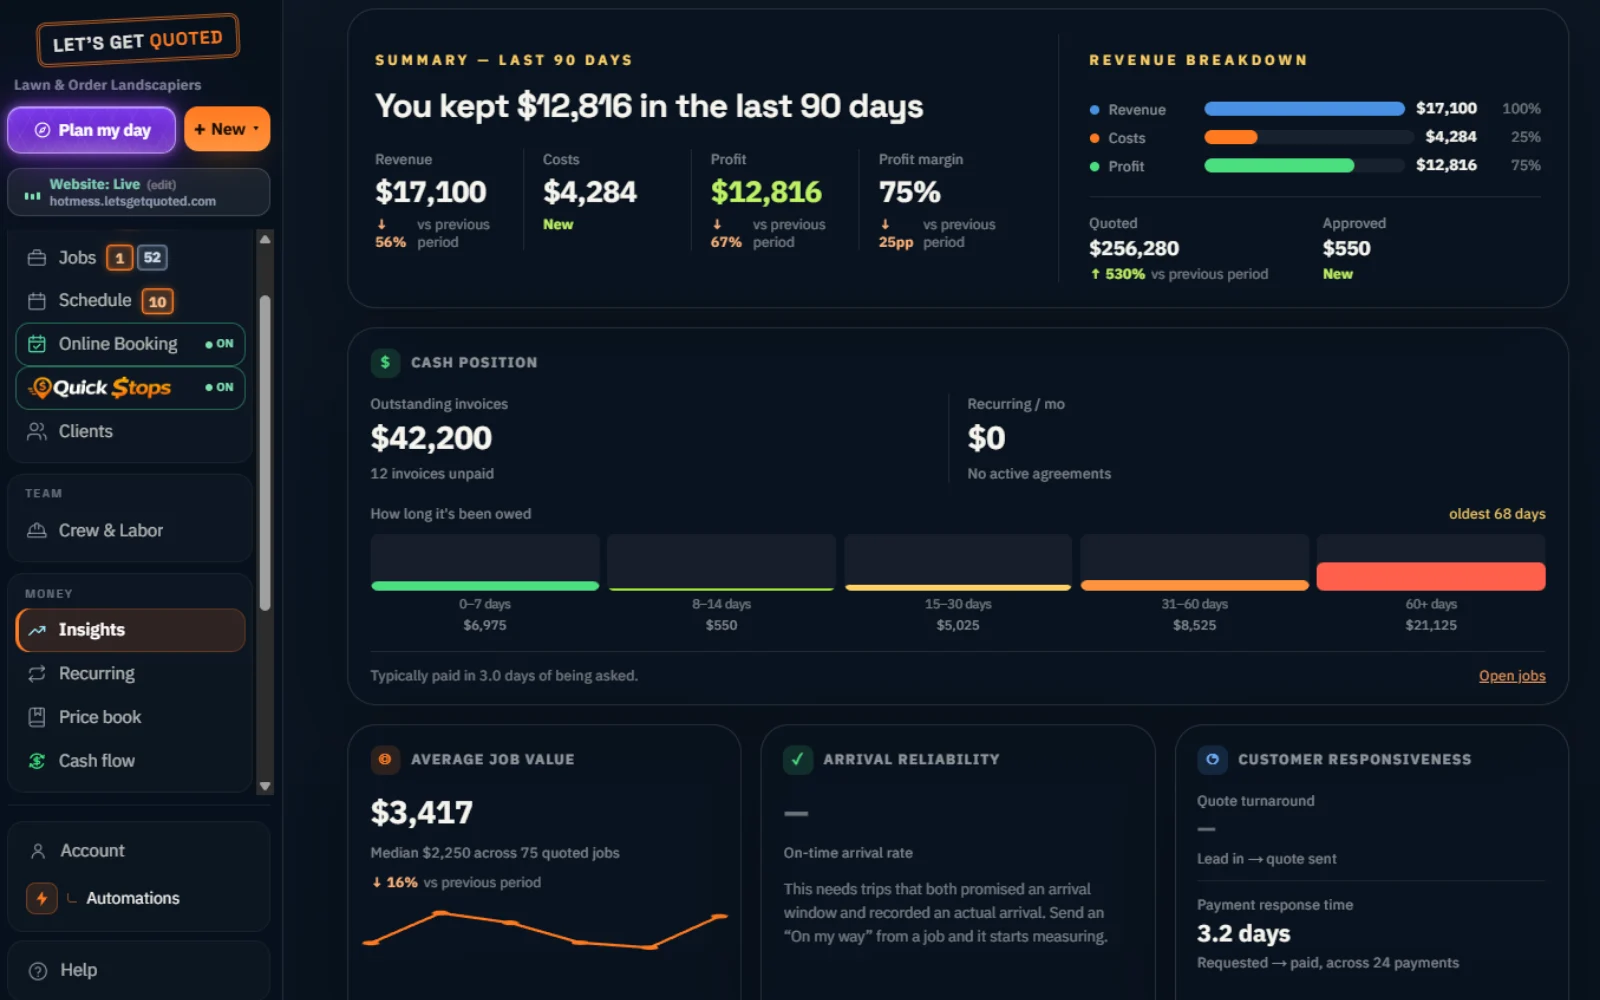
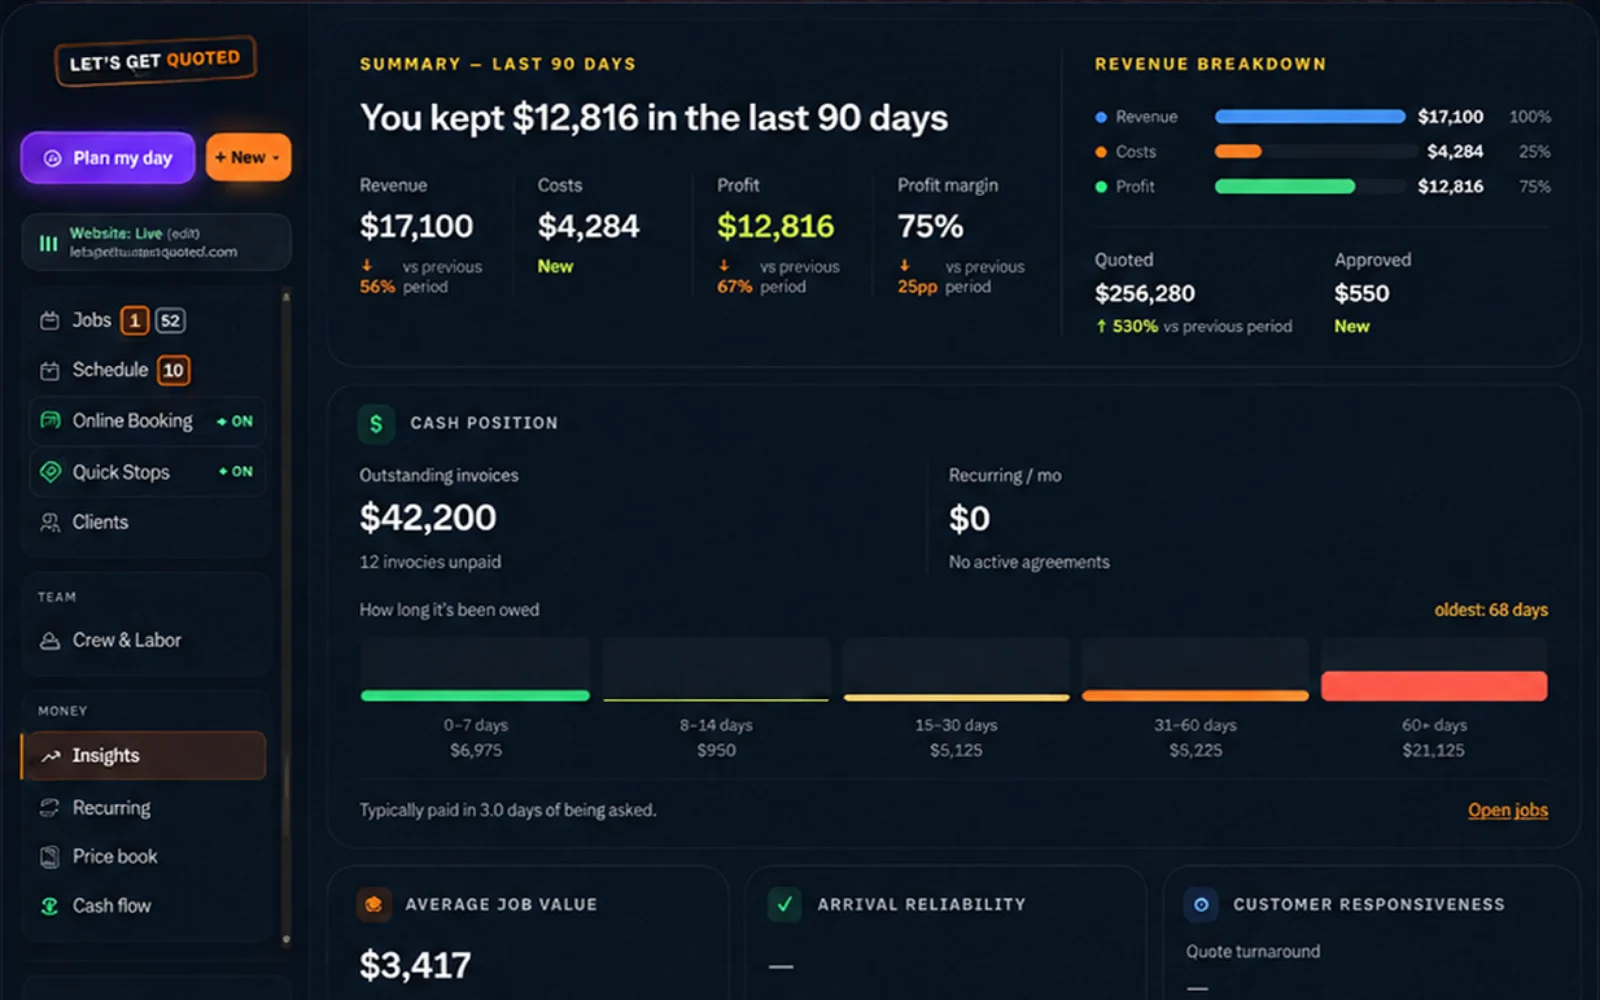
Your 16:10 screenshots, and one crop value per screen
All three arrived at exactly 1600x1000, so for the first time nothing is
scaled or cropped to make them agree on a shape. What the earlier set lost
to fit the frame -- 62px, 155px, and 480px off the website builder -- is
back.

Two things still needed doing.

INSIGHTS CAME IN AT 77% SCALE. It was captured in a window that was not
maximised, so it carried 183px of dead ground down each side while the
other two ran edge to edge. Left alone, its UI rendered noticeably smaller
than the rest and the slider appeared to zoom as it rotated. The script now
finds that band and trims to the content -- but only when trimming does not
itself force a big crop, because a shot that was 16:10 with wide margins
becomes a narrow one that has to lose height to fill the frame again. Here
it costs 297px off the bottom, which is over the default limit and is taken
deliberately via TRIM_BUDGET: what goes is the lower half of the bottom
card row, and the Jobs queue and the Website preview already run off the
bottom edge, so a screen continuing past the frame is the house style
rather than an exception. A maximised re-take would need none of this.

THE MOBILE CROP WAS TUNED FOR THE OLD IMAGES. On a phone the frame turns
portrait and shows an 800px window rather than shrinking the whole screen
to something unreadable, and the old 26% offset now landed inside the
sidebar -- cut-off "+ New" and "ON" fragments down the left edge. One value
[…]

diff --git a/src/components/flagship/hero-showcase.tsx b/src/components/flagship/hero-showcase.tsx
@@ -11,32 +11,53 @@ import { useCallback, useEffect, useRef, useState } from 'react';
  * what the site audit meant by "show the actual product, not only a stylized
  * representation".
  *
- * THE PIPELINE. Sources live in assets/product-shots/*.png and are normalised
- * onto one 1600x1000 canvas by scripts/prepare-hero-shots.mjs — they arrive at
- * anything from 1.51 to 2.08 aspect and the slider cross-fades between them
- * inside a single fixed frame, so they have to agree on a shape first.
+ * THE PIPELINE. Sources live in assets/product-shots/ and are normalised onto
+ * one 1600x1000 canvas by scripts/prepare-hero-shots.mjs — the slider
+ * cross-fades between them inside a single fixed frame, so they have to agree
+ * on a shape first. The current set is already 1600x1000, so nothing is being
+ * scaled or cropped to make that true; capture at 16:10 and it stays that way.
  *
- * TO SWAP OR ADD ONE: drop a PNG into assets/product-shots/, run the script,
+ * TO SWAP OR ADD ONE: drop an image into assets/product-shots/, run the script,
  * and add a line to SHOTS below. The tabs, the labels, the timer and the
  * announcements all read off this array; the frame's aspect ratio lives in
  * .showcase-frame and must match the script's canvas.
  */
 
+/**
+ * `focus` is the horizontal object-position used on a phone, where the frame
+ * turns portrait and shows an 800px-wide window of the 1600px shot rather than
+ * shrinking the whole screen to something unreadable. It is per shot because
+ * one value provably cannot serve all three — the app sidebar is ~270px wide
+ * and the website builder's control panel is ~600px, so an offset that clears
+ * the first lands mid-panel on the second and cuts every label in half. Each
+ * value below is the one that clears its own left edge and no more; 46% on
+ * Insights, for instance, already reads "UMMARY" and "utstanding invoices".
+ *
+ * It does nothing above the mobile breakpoint, where the frame and the images
+ * are both 16:10 and cover crops nothing.
+ */
 const SHOTS = [
   {
     src: '/product/insights.webp',
     label: 'Insights',
+    focus: '40%',
     alt: 'The Insights screen: what you kept over the last 90 days, revenue against costs, cash position and how long invoices have been owed.',
   },
   {
     src: '/product/jobs.webp',
     label: 'Jobs',
-    alt: 'The Jobs screen: the whole pipeline with each job’s stage, customer, value and schedule, and one job opened beside it.',
+    focus: '46%',
+    alt: 'The Jobs screen: the whole pipeline filtered by stage, a queue showing each job’s customer, value and date, and a map of where the work is.',
   },
   {
     src: '/product/website.webp',
     label: 'Website',
-    alt: 'The website builder: the sections of your site on the left and a live preview of the published page on the right.',
+    // Past the control panel entirely, onto the live preview: on a phone the
+    // panel's labels are too small to read, while the previewed site is legible
+    // and still obviously an editor — "Click any section or photo to edit it"
+    // and the Edit header button both stay in frame.
+    focus: '72%',
+    alt: 'The website builder: a live, editable preview of the published page, with its headline, photo and instant-estimate form.',
   },
 ];
 
@@ -107,6 +128,7 @@ export default function HeroShowcase() {
             priority={i === 0}
             loading={i === 0 ? undefined : 'lazy'}
             sizes="(max-width: 980px) 92vw, 52vw"
+            style={{ objectPosition: `${shot.focus} 0` }}
             data-on={i === index ? 'true' : 'false'}
             aria-hidden={i === index ? undefined : 'true'}
           />

diff --git a/src/components/flagship/flagship.module.css b/src/components/flagship/flagship.module.css
@@ -3059,15 +3059,23 @@
   .root :global(.showcase-tabs) { gap: 6px; }
   .root :global(.showcase-tabs button) { padding: 8px 11px 8px 9px; font-size: 11.5px; }
 
-  /* A 1400px desktop screen shown 350px wide is a 4x reduction — a picture of
+  /* A 1600px desktop screen shown 350px wide is a 4.6x reduction — a picture of
      a dashboard with nothing on it you can read, which is the thing worth
      avoiding rather than the thing worth doing. The frame goes portrait and
-     crops INTO the screen instead: the same asset, about 2.3x rather than 4x,
-     showing the left of the content column where the headline figures are.
-     object-position starts past the sidebar, which is the least informative
-     strip of any of the four screens. */
+     crops INTO the screen instead: the same asset at about 2x, showing an
+     800px-wide window of it.
+
+     WHICH 800px is per screen, and comes from the component — hero-showcase.tsx
+     sets object-position inline off each shot's own "focus". One shared value
+     cannot work: the app sidebar is ~270px wide but the website builder's
+     control panel is ~600px, so the offset that clears one lands in the middle
+     of the other and cuts every label mid-word. The rule below is only the
+     fallback for a shot that arrives without a focus.
+
+     It has no effect above this breakpoint: the frame is 1600/1000 there, the
+     images are 1600x1000, so cover crops nothing. */
   .root :global(.showcase-frame) { aspect-ratio: 4 / 5; }
-  .root :global(.showcase-shot) { object-position: 26% 0; }
+  .root :global(.showcase-shot) { object-position: 40% 0; }
 }
 
 
